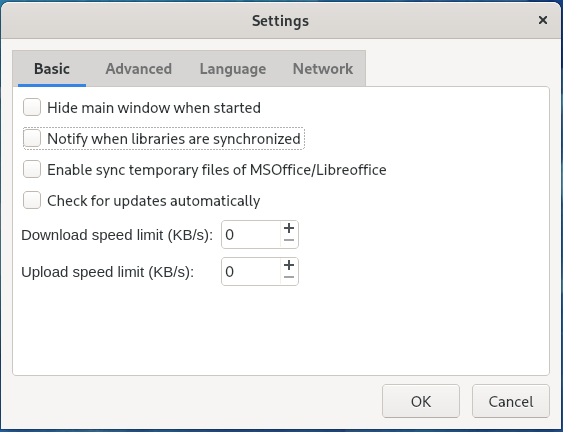
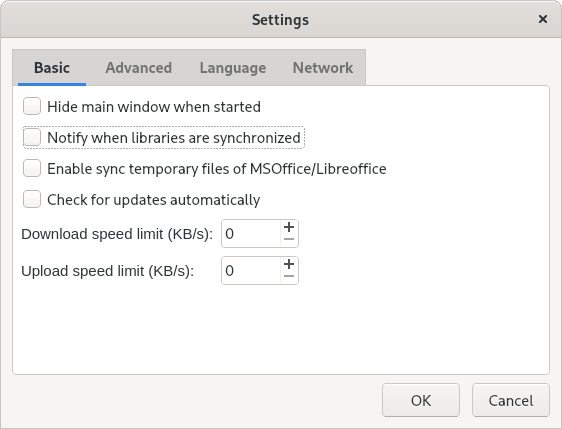
Updated two images that were bad looking

diff --git a/content/post/disable-seafile-notifications-gnome40.md b/content/post/disable-seafile-notifications-gnome40.md
@@ -2,8 +2,8 @@
 title   = "Disable Seafile Notifications on Gnome 40"
 date    = "2021-06-16"
 author  = "Ryan Himmelwright"
-image   = "img/posts/upgrading-ipad-pro-2021/bodie_island_lighthouse.jpeg"
-caption = ""
+image   = "img/posts/disable-seafile-notifications-gnome40/the-dunes-sound-header.jpeg"
+caption = "Jockey's Ridge Stage Park, Nags Head, NC"
 tags    = ["Linux", "seafile", "Gnome"]
 draft   = "True"
 Comments = "True"
@@ -18,9 +18,12 @@ work-around, I'll document it in a post even though it's a unique case.
 
 <!--more-->
 
-### Install Try Icons: Reloaded extension
+### Install Tray Icons: Reloaded extension
 
-*Screenshot of extension webpage*
+<center>
+<a href="../../img/posts/disable-seafile-notifications-gnome40/install-extension.png"><img alt="Installing the gnome extension" src="../../img/posts/disable-seafile-notifications-gnome40/install-extension.png" style="max-width: 100%;"/></a>
+<div class="caption">Installing 'Tray Icons: Reloaded' from Gnome extensions website</div>
+</center>
 
 The first step is to install an extension that allows application tray icons.
 One extenstion that seems to "work" as of now (with a catch, more on that
@@ -29,21 +32,35 @@ below), is [Tray Icons: Reloaded](https://extensions.gnome.org/extension/2890/tr
 
 ### (Optionally) Install Gnome Extensions app
 
-*Screenshot of Extensions in Software Center*
+<center>
+<a href="../../img/posts/disable-seafile-notifications-gnome40/install-gnome-extensions.png"><img alt="Installing gnome-extensions app" src="../../img/posts/disable-seafile-notifications-gnome40/install-gnome-extensions.png" style="max-width: 100%;"/></a>
+<div class="caption">Installing the Gnome extensions app</div>
+</center>
+
 
 ### Switch to an Xorg Session 
 
-*Screenshot of session switch*
+<center>
+<a href="../../img/posts/disable-seafile-notifications-gnome40/switch-to-xorg.png"><img alt="Swithing to Xorg Session" src="../../img/posts/disable-seafile-notifications-gnome40/switch-to-xorg.png" style="max-width: 100%;"/></a>
+<div class="caption">Switching to Xorg Session</div>
+</center>
 
 (this is the step I always forget)
 
 
 ### Use the now visible Seafile desktop icon to open it's settings, and disable the notifications
 
-*Screenshot of toolbar item*
+<center>
+<a href="../../img/posts/disable-seafile-notifications-gnome40/seafile-icon-select-settings.png"><img alt="Accessing seafile settings from toolbar icon" src="../../img/posts/disable-seafile-notifications-gnome40/seafile-icon-select-settings.png" style="max-width: 100%;"/></a>
+<div class="caption">Accessing seafile settings from toolbar icon.</div>
+</center>
 
 ### Seafile Settings
 
 *Screenshot of un-checking setting*
+<center>
+<a href="../../img/posts/disable-seafile-notifications-gnome40/seafile-settings.png"><img alt="Changing notification setting" src="../../img/posts/disable-seafile-notifications-gnome40/seafile-settings.png" style="max-width: 100%;"/></a>
+<div class="caption">Changing notification setting</div>
+</center>
 
-## Conclustion
+## Conclusion
